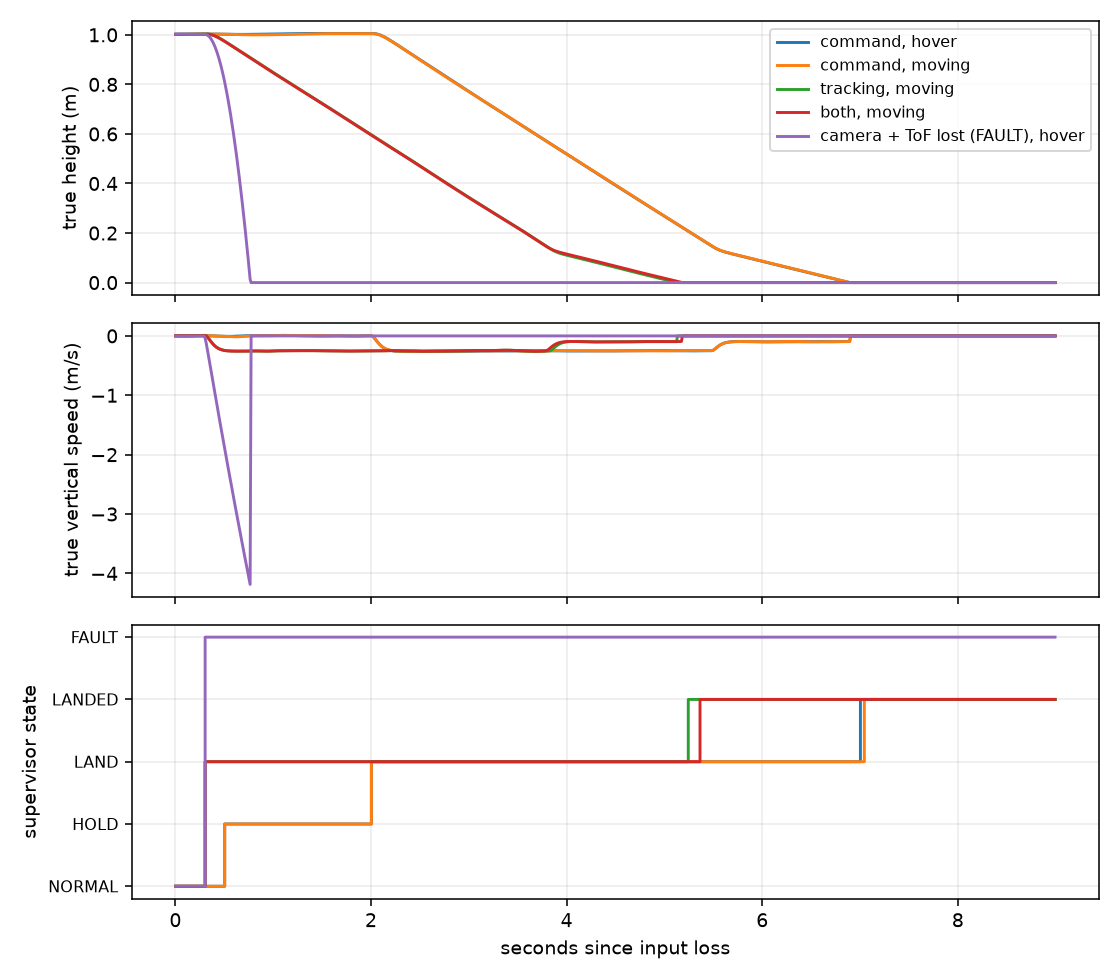
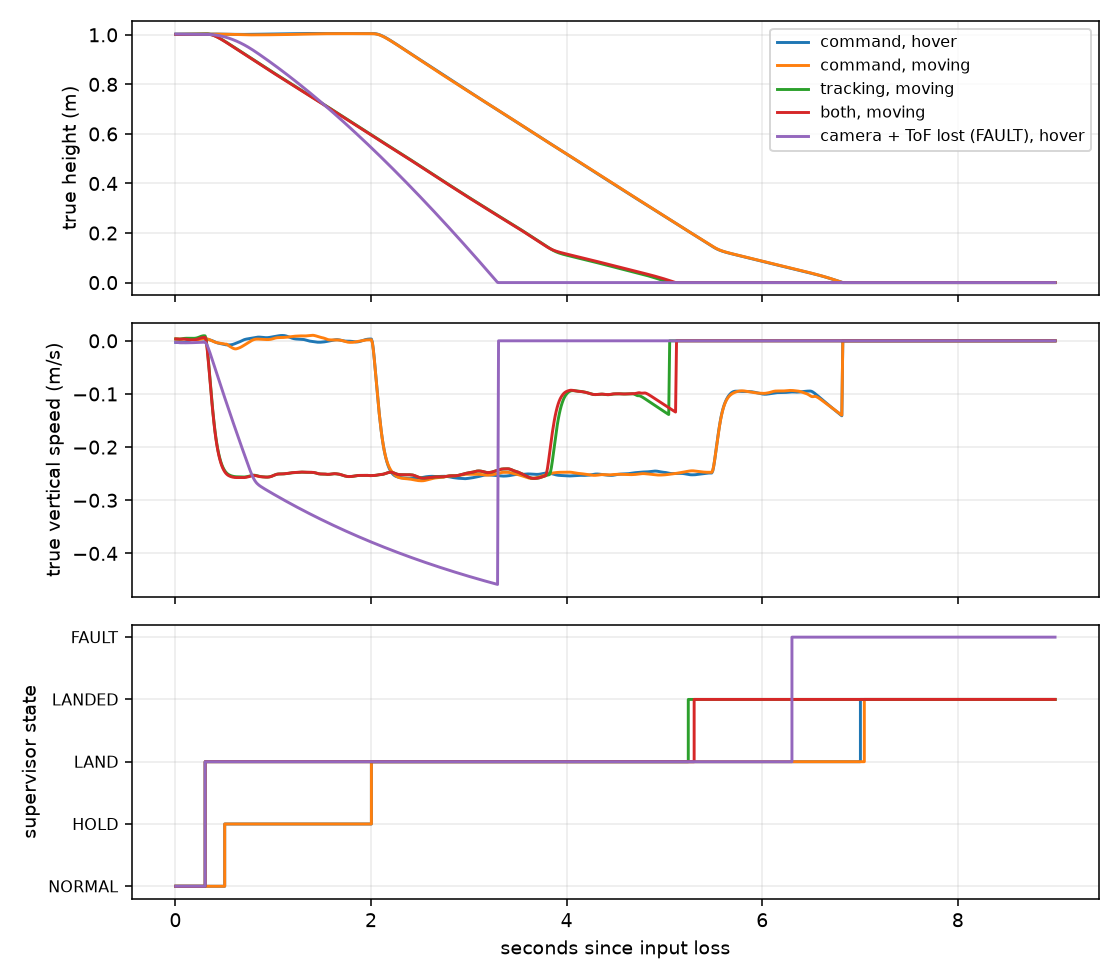
Review checklist (G3), refreshed failsafe/flow-braking reports, docs
docs/review_checklist.md collects the checks behind bugs this project found
(NaN inputs, tick wrap, windup against limits, biased estimates, truth
leaks, mutation-checked tests); AGENTS.md points to it and lists the new
make targets.

Reports regenerated after the thrust caps and SITL truth-leak fix: XY
excursion unchanged; touchdown approach 0.131-0.148 m/s (was 0.093-0.102,
dwell thrust ceiling); camera+ToF loss at 1 m now touches down at 0.45 m/s
and stops motors on the ground instead of a 4.2 m/s fall.

diff --git a/docs/build_plan_pdf.py b/docs/build_plan_pdf.py
@@ -218,10 +218,11 @@ def build():
         ["Safety: hold + landing", "Opt-in SITL; hardware pending",
          "Command loss: fixed-pose hold then descent; camera loss: level descent with independent local ToF. "
          "LAND stays latched through touchdown, even if commands return; terminal states block automatic rearm. "
-         "Nominal 1/4 kHz SITL: max descent 0.263 m/s, sampled touchdown approach 0.093-0.102 m/s; motors off at ground. "
+         "Nominal 1/4 kHz SITL: max descent 0.263 m/s, sampled touchdown approach 0.131-0.148 m/s; motors off at ground. "
          "Camera lost above the 1.3 m ToF range: bounded 6 s blind descent with thrust held at 0.97-0.99 x learned "
          "hover, so a +/-0.02 g unseen accel bias still lands (it climbed to 4 m and fell before). "
-         "Permanent loss of every height source is still a FAULT/motor stop, not safe landing."],
+         "Permanent loss of every height source still ends in FAULT (from 1 m: 0.45 m/s contact, then motor stop on the "
+         "ground at 6 s; before: 4.2 m/s fall), not safe landing."],
         ["Local flow braking", "SITL checks pass; hardware pending",
          "Healthy flow/range enables zero-velocity braking after camera loss instead of passive coasting. "
          "Nominal excursion 1.71-1.72 m -> 0.277-0.290 m; sampled stress worst 0.349 m at 1/4 kHz. "
@@ -247,7 +248,8 @@ def build():
          "safely; minimum separation 0.35 m. No inter-drone downwash; low battery is a voltage step, no discharge model."],
         ["1.9 G3 quality gate", "Met on host",
          "cppcheck and clang-tidy clean (make core-lint / core-tidy, CI); -Wall -Wextra on fc_core sources; "
-         "line coverage 80.8% of fc_step-reachable code (INDI/Mellinger excluded, planner not built on host)."],
+         "line coverage 80.8% of fc_step-reachable code (INDI/Mellinger excluded, planner not built on host); "
+         "review checklist (docs/review_checklist.md). Timing budget: fcTime logs on target, unmeasured until a board runs."],
     ], [1.35, 0.8, 4.85]), p(
         "4 kHz is a host/SITL configuration, not a measured ESP32-P4 runtime. The default images still use "
         "the existing ESP-Drone task loop; fc_step on target is opt-in and compile-checked only. Driver integration, CPU deadlines, Wi-Fi/camera contention and hardware "

diff --git a/sim/reports/flow_braking/README.md b/sim/reports/flow_braking/README.md
@@ -6,34 +6,34 @@ Same real C runtime and nominal 2-inch model, both loop rates. All losses start 
 
 | Profile | Case | Max XY excursion | Max descent | Sampled approach | Drift gate | Result |
 | --- | --- | --- | --- | --- | --- | --- |
-| whoop2_interim | baseline, no local flow | 1.719 m | 0.261 m/s | 0.102 m/s | baseline only | PASS |
-| whoop2_interim | flow, nominal | 0.290 m | 0.287 m/s | 0.101 m/s | 0.35 m | PASS |
-| whoop2_interim | flow, seed 1 | 0.327 m | 0.292 m/s | 0.090 m/s | 0.50 m | PASS |
-| whoop2_interim | flow, seed 5 | 0.349 m | 0.289 m/s | 0.096 m/s | 0.50 m | PASS |
-| whoop2_interim | flow, scale -20% | 0.294 m | 0.283 m/s | 0.101 m/s | 0.50 m | PASS |
-| whoop2_interim | flow, scale +20% | 0.286 m | 0.292 m/s | 0.101 m/s | 0.50 m | PASS |
-| whoop2_interim | flow, delay 20ms | 0.291 m | 0.288 m/s | 0.101 m/s | 0.50 m | PASS |
-| whoop2_interim | flow, yaw 90deg | 0.290 m | 0.284 m/s | 0.100 m/s | 0.50 m | PASS |
-| whoop2_interim | flow, doubled pixel noise | 0.290 m | 0.289 m/s | 0.100 m/s | 0.50 m | PASS |
-| whoop2_interim | flow, rotation factor -20% | 0.292 m | 0.285 m/s | 0.101 m/s | 0.50 m | PASS |
-| whoop2_interim | flow, rotation factor +20% | 0.288 m | 0.291 m/s | 0.101 m/s | 0.50 m | PASS |
-| whoop2_interim | flow, sensor mount yaw 15deg | 0.289 m | 0.287 m/s | 0.101 m/s | 0.50 m | PASS |
-| whoop2_interim | flow, ToF reads 2 cm long | 0.289 m | 0.307 m/s | 0.102 m/s | 0.50 m | PASS |
-| whoop2_interim | flow, restored jumped camera | 0.290 m | 0.287 m/s | 0.101 m/s | 0.35 m | PASS |
-| whoop2_4k | baseline, no local flow | 1.706 m | 0.259 m/s | 0.096 m/s | baseline only | PASS |
-| whoop2_4k | flow, nominal | 0.277 m | 0.276 m/s | 0.093 m/s | 0.35 m | PASS |
-| whoop2_4k | flow, seed 1 | 0.328 m | 0.269 m/s | 0.095 m/s | 0.50 m | PASS |
-| whoop2_4k | flow, seed 5 | 0.348 m | 0.268 m/s | 0.094 m/s | 0.50 m | PASS |
-| whoop2_4k | flow, scale -20% | 0.283 m | 0.272 m/s | 0.094 m/s | 0.50 m | PASS |
-| whoop2_4k | flow, scale +20% | 0.271 m | 0.279 m/s | 0.094 m/s | 0.50 m | PASS |
-| whoop2_4k | flow, delay 20ms | 0.278 m | 0.281 m/s | 0.094 m/s | 0.50 m | PASS |
-| whoop2_4k | flow, yaw 90deg | 0.281 m | 0.270 m/s | 0.094 m/s | 0.50 m | PASS |
-| whoop2_4k | flow, doubled pixel noise | 0.278 m | 0.276 m/s | 0.093 m/s | 0.50 m | PASS |
-| whoop2_4k | flow, rotation factor -20% | 0.280 m | 0.273 m/s | 0.093 m/s | 0.50 m | PASS |
-| whoop2_4k | flow, rotation factor +20% | 0.274 m | 0.278 m/s | 0.093 m/s | 0.50 m | PASS |
-| whoop2_4k | flow, sensor mount yaw 15deg | 0.277 m | 0.274 m/s | 0.093 m/s | 0.50 m | PASS |
-| whoop2_4k | flow, ToF reads 2 cm long | 0.276 m | 0.293 m/s | 0.097 m/s | 0.50 m | PASS |
-| whoop2_4k | flow, restored jumped camera | 0.277 m | 0.276 m/s | 0.093 m/s | 0.35 m | PASS |
+| whoop2_interim | baseline, no local flow | 1.712 m | 0.261 m/s | 0.131 m/s | baseline only | PASS |
+| whoop2_interim | flow, nominal | 0.290 m | 0.287 m/s | 0.132 m/s | 0.35 m | PASS |
+| whoop2_interim | flow, seed 1 | 0.327 m | 0.292 m/s | 0.135 m/s | 0.50 m | PASS |
+| whoop2_interim | flow, seed 5 | 0.346 m | 0.289 m/s | 0.139 m/s | 0.50 m | PASS |
+| whoop2_interim | flow, scale -20% | 0.294 m | 0.283 m/s | 0.133 m/s | 0.50 m | PASS |
+| whoop2_interim | flow, scale +20% | 0.286 m | 0.292 m/s | 0.132 m/s | 0.50 m | PASS |
+| whoop2_interim | flow, delay 20ms | 0.291 m | 0.288 m/s | 0.132 m/s | 0.50 m | PASS |
+| whoop2_interim | flow, yaw 90deg | 0.290 m | 0.284 m/s | 0.136 m/s | 0.50 m | PASS |
+| whoop2_interim | flow, doubled pixel noise | 0.290 m | 0.289 m/s | 0.132 m/s | 0.50 m | PASS |
+| whoop2_interim | flow, rotation factor -20% | 0.292 m | 0.285 m/s | 0.132 m/s | 0.50 m | PASS |
+| whoop2_interim | flow, rotation factor +20% | 0.288 m | 0.291 m/s | 0.132 m/s | 0.50 m | PASS |
+| whoop2_interim | flow, sensor mount yaw 15deg | 0.289 m | 0.287 m/s | 0.132 m/s | 0.50 m | PASS |
+| whoop2_interim | flow, ToF reads 2 cm long | 0.289 m | 0.307 m/s | 0.116 m/s | 0.50 m | PASS |
+| whoop2_interim | flow, restored jumped camera | 0.290 m | 0.287 m/s | 0.132 m/s | 0.35 m | PASS |
+| whoop2_4k | baseline, no local flow | 1.693 m | 0.259 m/s | 0.139 m/s | baseline only | PASS |
+| whoop2_4k | flow, nominal | 0.277 m | 0.275 m/s | 0.133 m/s | 0.35 m | PASS |
+| whoop2_4k | flow, seed 1 | 0.328 m | 0.269 m/s | 0.140 m/s | 0.50 m | PASS |
+| whoop2_4k | flow, seed 5 | 0.346 m | 0.268 m/s | 0.143 m/s | 0.50 m | PASS |
+| whoop2_4k | flow, scale -20% | 0.283 m | 0.272 m/s | 0.134 m/s | 0.50 m | PASS |
+| whoop2_4k | flow, scale +20% | 0.271 m | 0.279 m/s | 0.132 m/s | 0.50 m | PASS |
+| whoop2_4k | flow, delay 20ms | 0.278 m | 0.281 m/s | 0.132 m/s | 0.50 m | PASS |
+| whoop2_4k | flow, yaw 90deg | 0.281 m | 0.270 m/s | 0.135 m/s | 0.50 m | PASS |
+| whoop2_4k | flow, doubled pixel noise | 0.277 m | 0.276 m/s | 0.132 m/s | 0.50 m | PASS |
+| whoop2_4k | flow, rotation factor -20% | 0.280 m | 0.273 m/s | 0.133 m/s | 0.50 m | PASS |
+| whoop2_4k | flow, rotation factor +20% | 0.274 m | 0.278 m/s | 0.133 m/s | 0.50 m | PASS |
+| whoop2_4k | flow, sensor mount yaw 15deg | 0.277 m | 0.274 m/s | 0.133 m/s | 0.50 m | PASS |
+| whoop2_4k | flow, ToF reads 2 cm long | 0.276 m | 0.292 m/s | 0.118 m/s | 0.50 m | PASS |
+| whoop2_4k | flow, restored jumped camera | 0.277 m | 0.275 m/s | 0.133 m/s | 0.35 m | PASS |
 
 ![Excursion and horizontal speed](braking.png)
 

diff --git a/sim/reports/failsafe/README.md b/sim/reports/failsafe/README.md
@@ -8,22 +8,22 @@ Command loss: after 500 ms capture a fixed estimated pose, clear trajectory feed
 
 | Rate/profile | Input loss | Motion | Recovery | State sequence | Landed after | Disarm height | Max descent / approach speed | Max XY drift | Check |
 | --- | --- | --- | --- | --- | --- | --- | --- | --- | --- |
-| whoop2_interim | command | hover | n/a | NORMAL@0.01s → HOLD@0.51s → LAND@2.01s → LANDED@6.99s | 6.989 s | 0.000 m | 0.257 / 0.099 m/s | 0.003 m | PASS |
-| whoop2_interim | command | moving | n/a | NORMAL@0.01s → HOLD@0.51s → LAND@2.01s → LANDED@7.05s | 7.049 s | 0.000 m | 0.262 / 0.097 m/s | 0.302 m | PASS |
-| whoop2_interim | tracking | moving | n/a | NORMAL@0.01s → LAND@0.31s → LANDED@5.37s | 5.369 s | 0.000 m | 0.261 / 0.102 m/s | 1.719 m | PASS |
-| whoop2_interim | both | moving | n/a | NORMAL@0.01s → LAND@0.31s → LANDED@5.37s | 5.369 s | 0.000 m | 0.261 / 0.102 m/s | 1.320 m | PASS |
+| whoop2_interim | command | hover | n/a | NORMAL@0.01s → HOLD@0.51s → LAND@2.01s → LANDED@6.99s | 6.989 s | 0.000 m | 0.257 / 0.148 m/s | 0.003 m | PASS |
+| whoop2_interim | command | moving | n/a | NORMAL@0.01s → HOLD@0.51s → LAND@2.01s → LANDED@7.05s | 7.049 s | 0.000 m | 0.262 / 0.138 m/s | 0.302 m | PASS |
+| whoop2_interim | tracking | moving | n/a | NORMAL@0.01s → LAND@0.31s → LANDED@5.37s | 5.369 s | 0.000 m | 0.261 / 0.131 m/s | 1.712 m | PASS |
+| whoop2_interim | both | moving | n/a | NORMAL@0.01s → LAND@0.31s → LANDED@5.37s | 5.369 s | 0.000 m | 0.261 / 0.134 m/s | 1.313 m | PASS |
 | whoop2_interim | command | hover | 0.800 s | NORMAL@0.01s → HOLD@0.51s → NORMAL@0.83s | n/a | n/a | n/a / n/a | 0.003 m | PASS |
-| whoop2_interim | command | moving | 2.500 s | NORMAL@0.01s → HOLD@0.51s → LAND@2.01s → LANDED@7.05s | 7.049 s | 0.000 m | 0.262 / 0.097 m/s | 0.302 m | PASS |
-| whoop2_interim | tracking | moving | 0.800 s | NORMAL@0.01s → LAND@0.31s → LANDED@5.41s | 5.409 s | 0.000 m | 0.258 / 0.098 m/s | 1.984 m | PASS |
-| whoop2_interim | camera + ToF (FAULT case) | hover | n/a | NORMAL@0.01s → FAULT@0.31s | n/a | 1.004 m | n/a / 4.177 m/s | 0.005 m | PASS (fault containment only) |
-| whoop2_4k | command | hover | n/a | NORMAL@0.00s → HOLD@0.50s → LAND@2.00s → LANDED@7.00s | 7.004 s | 0.000 m | 0.259 / 0.093 m/s | 0.002 m | PASS |
-| whoop2_4k | command | moving | n/a | NORMAL@0.00s → HOLD@0.50s → LAND@2.00s → LANDED@7.04s | 7.044 s | 0.000 m | 0.263 / 0.096 m/s | 0.292 m | PASS |
-| whoop2_4k | tracking | moving | n/a | NORMAL@0.00s → LAND@0.30s → LANDED@5.24s | 5.244 s | 0.000 m | 0.259 / 0.096 m/s | 1.706 m | PASS |
-| whoop2_4k | both | moving | n/a | NORMAL@0.00s → LAND@0.30s → LANDED@5.36s | 5.364 s | 0.000 m | 0.259 / 0.093 m/s | 1.340 m | PASS |
+| whoop2_interim | command | moving | 2.500 s | NORMAL@0.01s → HOLD@0.51s → LAND@2.01s → LANDED@7.05s | 7.049 s | 0.000 m | 0.262 / 0.138 m/s | 0.302 m | PASS |
+| whoop2_interim | tracking | moving | 0.800 s | NORMAL@0.01s → LAND@0.31s → LANDED@5.41s | 5.409 s | 0.000 m | 0.258 / 0.135 m/s | 1.969 m | PASS |
+| whoop2_interim | camera + ToF (FAULT case) | hover | n/a | NORMAL@0.01s → LAND@0.31s → FAULT@6.31s | n/a | 0.000 m | 0.447 / 0.447 m/s | 0.035 m | PASS (fault containment only) |
+| whoop2_4k | command | hover | n/a | NORMAL@0.00s → HOLD@0.50s → LAND@2.00s → LANDED@7.00s | 7.004 s | 0.000 m | 0.259 / 0.141 m/s | 0.002 m | PASS |
+| whoop2_4k | command | moving | n/a | NORMAL@0.00s → HOLD@0.50s → LAND@2.00s → LANDED@7.04s | 7.044 s | 0.000 m | 0.263 / 0.140 m/s | 0.292 m | PASS |
+| whoop2_4k | tracking | moving | n/a | NORMAL@0.00s → LAND@0.30s → LANDED@5.24s | 5.244 s | 0.000 m | 0.259 / 0.139 m/s | 1.693 m | PASS |
+| whoop2_4k | both | moving | n/a | NORMAL@0.00s → LAND@0.30s → LANDED@5.30s | 5.304 s | 0.000 m | 0.259 / 0.134 m/s | 1.331 m | PASS |
 | whoop2_4k | command | hover | 0.800 s | NORMAL@0.00s → HOLD@0.50s → NORMAL@0.82s | n/a | n/a | n/a / n/a | 0.002 m | PASS |
-| whoop2_4k | command | moving | 2.500 s | NORMAL@0.00s → HOLD@0.50s → LAND@2.00s → LANDED@7.04s | 7.044 s | 0.000 m | 0.263 / 0.096 m/s | 0.292 m | PASS |
-| whoop2_4k | tracking | moving | 0.800 s | NORMAL@0.00s → LAND@0.30s → LANDED@5.46s | 5.464 s | 0.000 m | 0.257 / 0.093 m/s | 1.982 m | PASS |
-| whoop2_4k | camera + ToF (FAULT case) | hover | n/a | NORMAL@0.00s → FAULT@0.30s | n/a | 1.002 m | n/a / 4.186 m/s | 0.001 m | PASS (fault containment only) |
+| whoop2_4k | command | moving | 2.500 s | NORMAL@0.00s → HOLD@0.50s → LAND@2.00s → LANDED@7.04s | 7.044 s | 0.000 m | 0.263 / 0.140 m/s | 0.292 m | PASS |
+| whoop2_4k | tracking | moving | 0.800 s | NORMAL@0.00s → LAND@0.30s → LANDED@5.46s | 5.464 s | 0.000 m | 0.257 / 0.137 m/s | 1.962 m | PASS |
+| whoop2_4k | camera + ToF (FAULT case) | hover | n/a | NORMAL@0.00s → LAND@0.30s → FAULT@6.30s | n/a | 0.000 m | 0.458 / 0.458 m/s | 0.016 m | PASS (fault containment only) |
 
 ## Gates and interpretation
 

diff --git a/docs/review_checklist.md b/docs/review_checklist.md
@@ -1,0 +1,36 @@
+# Review checklist (gate G3)
+
+Apply to every change in flight code (`firmware/fc_core`, subtree patches) before merge, whether a person or an
+AI agent reviews it. Each item comes from a bug this project actually found; the reference says where.
+
+## Numbers
+- [ ] Every float that reaches the estimator, controller or mixer is finite. Check sensor inputs, measurements,
+      divisions and `sqrtf`/`acosf` arguments. (Kalman 0/0 NaN at zero gyro; one NaN IMU sample poisoned the EKF.)
+- [ ] Tick and time arithmetic uses unsigned differences (`(uint32_t)(now - then)`) so wraparound is safe.
+- [ ] Integer division in a float context is intended (clang-tidy `bugprone-integer-division`).
+
+## Real-time rules (AGENTS.md)
+- [ ] No FreeRTOS calls, dynamic allocation or blocking I/O in fc_core flight-loop code. Target glue
+      (`firmware/fc_core/target`) may use static queues, without blocking.
+- [ ] State shared with other tasks crosses through a queue, never a plain struct written from two tasks.
+
+## Safety logic
+- [ ] Every new failsafe path ends in LANDED or a documented FAULT; nothing turns a stale ground command into a
+      takeoff.
+- [ ] Freshness uses receipt age and qualified values only; rejected packets never refresh it.
+- [ ] Controller integrators are reset when an external limit (thrust band, landed) held them against the loop.
+      (Blind-descent windup threw the drone up on release.)
+- [ ] Behaviour is checked against an estimate that is wrong. Inject sensor bias or scale error in SITL; do not
+      only test with truth-quality inputs. (A -0.02 g accel bias made blind descent climb to 4 m.)
+
+## Tests and evidence
+- [ ] A bug fix has a unit test that failed before the fix. Note in the commit how you saw it fail.
+- [ ] A new test is mutation-checked: break the logic it guards and confirm it fails.
+- [ ] SITL code feeds the firmware only what the vehicle or ground station can measure; no truth leaks.
+- [ ] `make core-test core-lint core-tidy sim-test swarm` pass. Firmware changes also build with `make flight`,
+      `make flight-fcstep FLIGHT_TARGET=esp32s3` and `make radio`.
+
+## Subtree hygiene
+- [ ] Subtree edits are minimal, marked `ESP-FC Next:` and listed in `docs/fc_core.md`. Default builds are
+      unchanged unless the change is the point.
+- [ ] `sdkconfig` is not committed.

diff --git a/AGENTS.md b/AGENTS.md
@@ -12,14 +12,16 @@ Dual-chip ESP32-P4 (flight) + ESP32-C5 (radio) flight controller. Plan: `docs/ES
 - Every bug fix in flight code needs a unit test that failed before the fix.
 - Flight-loop code (future `fc_core`): no FreeRTOS calls, no dynamic allocation, must build on host and target.
 - Keep the Crazyflie CRTP protocol compatible (cflib / Crazyswarm2).
+- Review flight-code changes against `docs/review_checklist.md` (G3).
 - License: GPL-3.0; keep upstream copyright headers.
 
 ## Commands
-- `make flight` / `make radio` - firmware builds
+- `make flight` / `make radio` - firmware builds; `make flight-fcstep FLIGHT_TARGET=esp32s3` - image with fc_step in the stabilizer task (CONFIG_ESPFC_FC_STEP)
 - `make core-test` - host build of fc_core with ASan/UBSan + Unity tests (sources used in place from the subtree; see `docs/fc_core.md`); first run copies mbedtls out of the IDF image (`make mbedtls-src`, needs Docker)
-- `make core-lint` - cppcheck of fc_core (G3); `make link-fuzz` - libFuzzer on the link codec (docs/protocols.md)
+- `make core-lint` / `make core-tidy` - cppcheck / clang-tidy of fc_core (G3); `make link-fuzz [FUZZ_TARGET=fuzz_link_aead]` - libFuzzer on the link codec or AES-CCM envelope (docs/protocols.md)
 - `make core-coverage` - coverage summary + HTML in `build/coverage/`
 - `make sim-setup` / `make sim-test` - Python sim environment (uv, Python 3.12) and tests
+- `make swarm` - four-drone SITL missions with injected faults (Task 1.8)
 - `make g1` - gate G1 report; re-run after changing gains, loop timing, or `sim/model/params.py`
 - `make viewer` - 3D replay viewer of the G1 and SITL scenarios (generated, git-ignored)
 - SITL (`sim/sitl`) rebuilds `build/fc_sitl` automatically from `firmware/fc_core` when sources change

diff --git a/docs/fc_core.md b/docs/fc_core.md
@@ -221,11 +221,14 @@ the viewer scenario is `?scenario=failsafe`. `SitlDrone(..., safe_landing=True)`
 local ToF; `link_up`, `tracking_up` and `height_up` independently gate command, camera and range delivery.
 
 Baseline without local flow, seed-9 SITL at 1/4 kHz: controlled cases reach LANDED about 5.24-7.05 s after loss,
-max descent about 0.263 m/s, sampled final approach 0.093-0.102 m/s, and motor disarm at ground.
+max descent about 0.263 m/s, sampled final approach 0.131-0.148 m/s (the touchdown-dwell thrust ceiling
+adds about 0.04 m/s), and motor disarm at ground.
 Restored commands during LAND do not restart flight. Moving camera-only loss still produces
 about **1.7 m XY excursion**, rising to about **2.0 m** with the restored/jumped camera reference
 (combined loss about 1.3 m), so this is not collision-safe swarm flight.
-The all-height-loss cases instead stop motors around 1 m height and fall: a tested fault path,
+The all-height-loss cases (camera and ToF lost at 1 m) now blind-descend and touch down at about
+0.45 m/s; the 6 s budget then stops the motors on the ground (before: motor stop at 1 m, 4.2 m/s fall).
+It still ends in FAULT: a tested fault path,
 not a safe-landing pass. See the report for the exact cases, gates and sampled metrics.
 
 Review regressions also cover local-range expiry during the touchdown dwell (camera-height fallback
